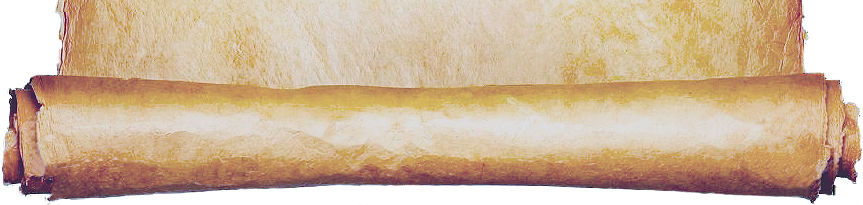
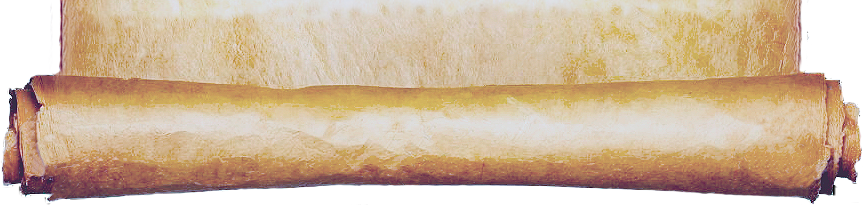
Работал с котятами(ссылки + фото) и доделал папирус

Changed region(s): [[0.0603, 0.0, 0.934, 0.3805], [0.1808, 0.1171, 0.2109, 0.1463]]

diff --git a/www/a2.php b/www/a2.php
@@ -9,19 +9,31 @@
         <div class="row">
           <div class="col-lg-3">
             <p class="kid-photo-age text-center">1 неделя</p>
-            <a href="img/kids/a2/01.jpg" class="kid-colorbox"><img src="img/kids/a2/01.jpg" alt="1 неделя"></a>
-          </div>
-          <div class="col-lg-3">
-            <p class="kid-photo-age text-center">1 неделя</p>
             <a href="img/kids/a2/02.jpg" class="kid-colorbox"><img src="img/kids/a2/02.jpg" alt="1 неделя"></a>
           </div>
           <div class="col-lg-3">
             <p class="kid-photo-age text-center">1 неделя</p>
-            <a href="img/kids/a2/03.jpg" class="kid-colorbox"><img src="img/kids/a2/03.jpg" alt="1 неделя"></a>
+            <a href="img/kids/a2/01.jpg" class="kid-colorbox"><img src="img/kids/a2/01.jpg" alt="1 неделя"></a>
+          </div>
+          <div class="col-lg-3">
+            <p class="kid-photo-age text-center">1 неделя</p>
+            <a href="img/kids/a2/06.jpg" class="kid-colorbox"><img src="img/kids/a2/06.jpg" alt="1 неделя"></a>
           </div>
           <div class="col-lg-3">
             <p class="kid-photo-age text-center">1 неделя</p>
             <a href="img/kids/a2/04.jpg" class="kid-colorbox"><img src="img/kids/a2/04.jpg" alt="1 неделя"></a>
+          </div>
+          <div class="col-lg-3">
+            <p class="kid-photo-age text-center">1 день</p>
+            <a href="img/kids/a2/14.jpg" class="kid-colorbox"><img src="img/kids/a2/14.jpg" alt="1 неделя"></a> 
+          </div>
+          <div class="col-lg-3">
+            <p class="kid-photo-age text-center">1 день</p>
+            <a href="img/kids/a2/15.jpg" class="kid-colorbox"><img src="img/kids/a2/15.jpg" alt="1 неделя"></a>
+          </div>
+          <div class="col-lg-3">
+            <p class="kid-photo-age text-center">1 день</p>
+            <a href="img/kids/a2/16.jpg" class="kid-colorbox"><img src="img/kids/a2/16.jpg" alt="1 неделя"></a>
           </div>
         </div>
       </div>

diff --git a/www/a3.php b/www/a3.php
@@ -13,7 +13,7 @@
           </div>
           <div class="col-lg-3">
             <p class="kid-photo-age text-center">1 неделя</p>
-            <a href="img/kids/a3/02.jpg" class="kid-colorbox"><img src="img/kids/a3/02.jpg" alt="1 неделя"></a>
+            <a href="img/kids/a3/08.jpg" class="kid-colorbox"><img src="img/kids/a3/08.jpg" alt="1 неделя"></a>
           </div>
           <div class="col-lg-3">
             <p class="kid-photo-age text-center">1 неделя</p>
@@ -21,7 +21,15 @@
           </div>
           <div class="col-lg-3">
             <p class="kid-photo-age text-center">1 неделя</p>
-            <a href="img/kids/a3/04.jpg" class="kid-colorbox"><img src="img/kids/a3/04.jpg" alt="1 неделя"></a>
+            <a href="img/kids/a3/02.jpg" class="kid-colorbox"><img src="img/kids/a3/02.jpg" alt="1 неделя"></a>
+          </div>
+          <div class="col-lg-3">
+            <p class="kid-photo-age text-center">1 день</p>
+            <a href="img/kids/a3/010.jpg" class="kid-colorbox"><img src="img/kids/a3/010.jpg" alt="1 неделя"></a>
+          </div>
+          <div class="col-lg-3">
+            <p class="kid-photo-age text-center">1 день</p>
+            <a href="img/kids/a3/012.jpg" class="kid-colorbox"><img src="img/kids/a3/012.jpg" alt="1 неделя"></a>
           </div>
         </div>
       </div>

diff --git a/www/kids.php b/www/kids.php
@@ -31,21 +31,21 @@
           </div>
           <div class="row">
             <div class="col-lg-4">
-              <p class="kids-name">А1 (Ален Делон)</p>
+            <a href="a1.php" class="kids-name">А1 (Ален Делон)</a>
               <p class="kids-sex">Кот</p>
               <a href="a1.php"><img src="img/kids/a1/11.jpg" alt="Котёнок"></a>
               <p class="kids-about">a 22 09</p>
               <p class="kids-status">Опция</p>
             </div>
             <div class="col-lg-4">
-              <p class="kids-name">А2 (Аль Пачино)</p>
+            <a href="a2.php" class="kids-name">А2 (Аль Пачино)</a>
               <p class="kids-sex">Кот</p>
               <a href="a2.php"><img src="img/kids/a2/05.jpg" alt="Котёнок"></a>
               <p class="kids-about">ns 22</p>
               <p class="kids-status">Опция</p>
             </div>
             <div class="col-lg-4">
-              <p class="kids-name">А3 (Анджелина Джоли)</p>
+            <a href="a3.php" class="kids-name">А3 (Анджелина Джоли)</a>
               <p class="kids-sex">Кошка</p>
               <a href="a3.php"><img src="img/kids/a3/08.jpg" alt="Котёнок"></a>
               <p class="kids-about">fs 22 09</p>

diff --git a/www/a1.php b/www/a1.php
@@ -13,7 +13,7 @@
           </div>
           <div class="col-lg-3">
             <p class="kid-photo-age text-center">1 неделя</p>
-            <a href="img/kids/a1/02.jpg" class="kid-colorbox"><img src="img/kids/a1/02.jpg" alt="1 неделя"></a>
+            <a href="img/kids/a1/06.jpg" class="kid-colorbox"><img src="img/kids/a1/06.jpg" alt="1 неделя"></a>
           </div>
           <div class="col-lg-3">
             <p class="kid-photo-age text-center">1 неделя</p>
@@ -22,6 +22,10 @@
           <div class="col-lg-3">
             <p class="kid-photo-age text-center">1 неделя</p>
             <a href="img/kids/a1/04.jpg" class="kid-colorbox"><img src="img/kids/a1/04.jpg" alt="1 неделя"></a>
+          </div>
+          <div class="col-lg-3">
+            <p class="kid-photo-age text-center">1 день</p>
+            <a href="img/kids/a1/013.jpg" class="kid-colorbox"><img src="img/kids/a1/013.jpg" alt="1 день"></a>
           </div>
         </div>
       </div>

diff --git a/www/gallery.php b/www/gallery.php
@@ -5,8 +5,8 @@
         <h1>Галерея</h1>
         <div class="row">
           <div class="col-lg-4">
-            <p><b>Улыбнись!</b></p>
-            <a href="album-smile.php" >
+          <a href="album-smile.php" class="cats-name">Улыбнись!</a>
+              <a href="album-smile.php" >
               <img src="img/gallery/smile/26.jpg" alt="Имя фотографии">
             </a>
           </div>
